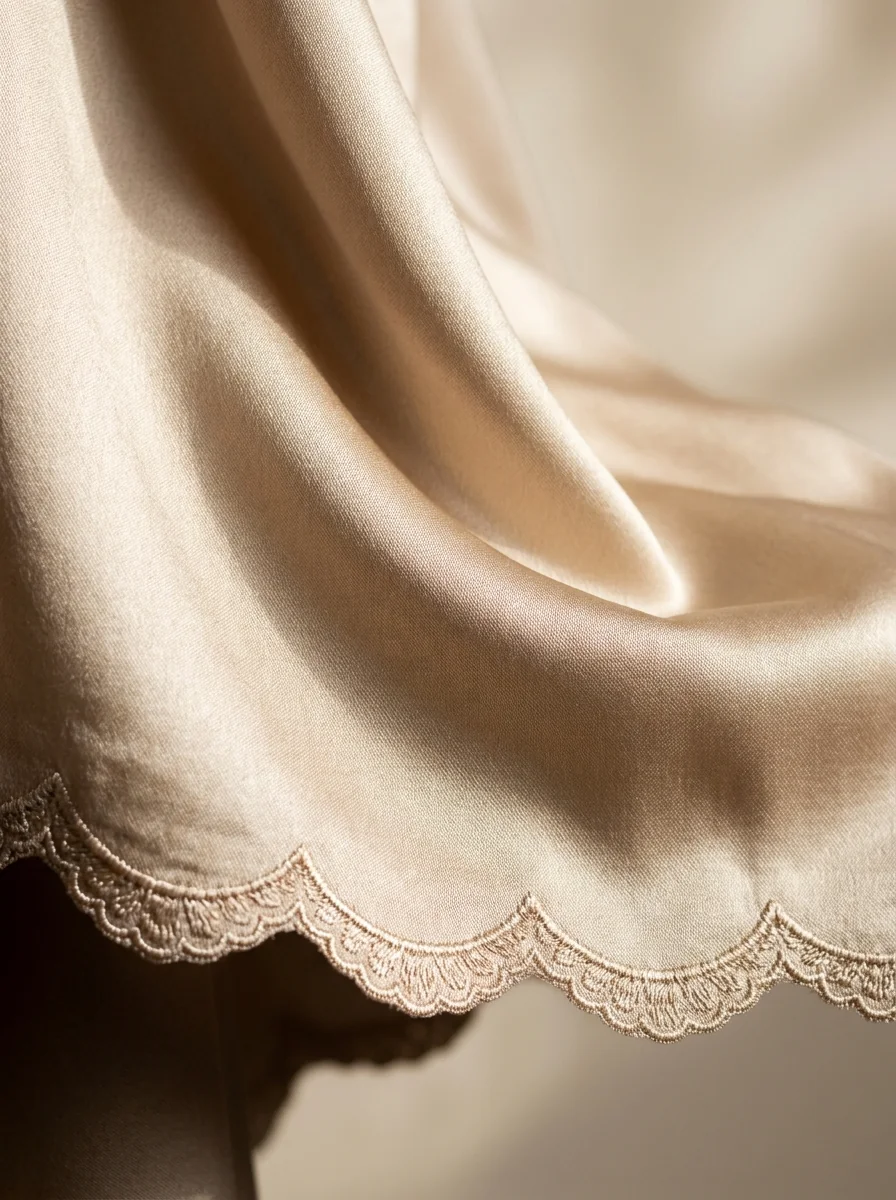
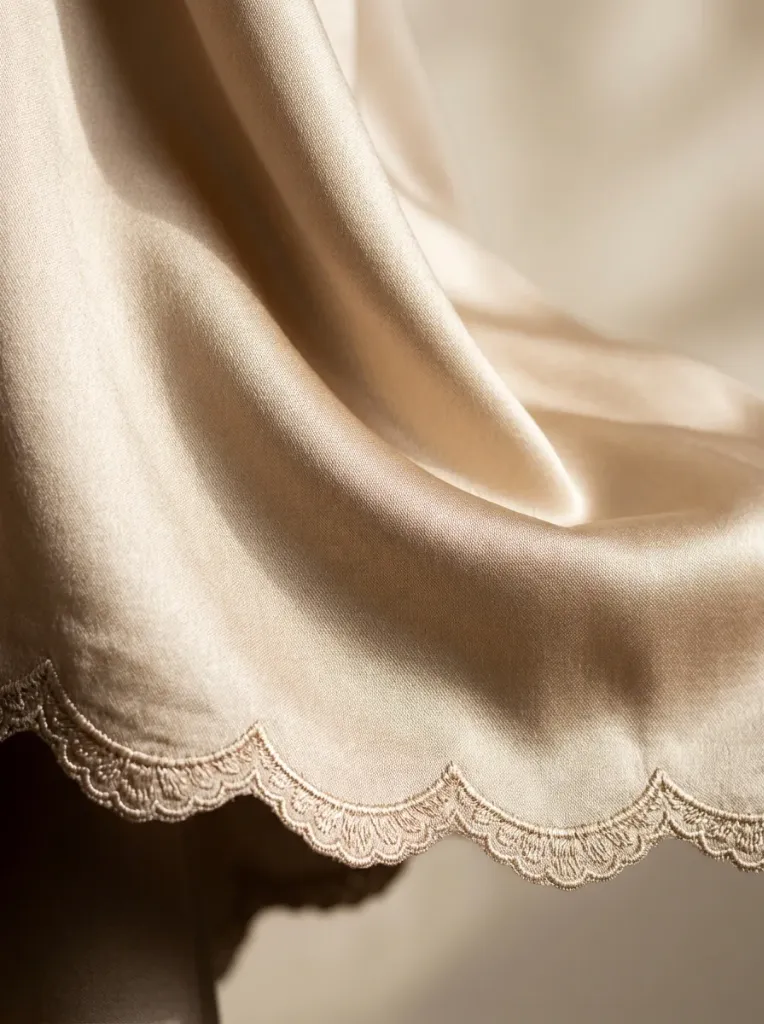
fix(portfolio): update apparel image with silk detail and decouple slot key from stale supabase entry

Changed region(s): [[0.6623, 0.75, 1.0, 0.875], [0.7225, 0.5312, 0.7526, 0.5625]]

diff --git a/src/components/Portfolio.tsx b/src/components/Portfolio.tsx
@@ -15,7 +15,7 @@ import wellnessGiftFlatlay from '@/assets/selected-work/wellness-gift-flatlay.we
 
 // ── Image key → fallback mapping ─────────────────────────────────────────────
 const PORTFOLIO_SLOTS = [
-  { key: 'portfolio_1', fallback: apparelSilkDetail, alt: 'Silk Apparel Detail Shoot — Saleixo', category: 'Apparel & Fashion' },
+  { key: 'portfolio_apparel', fallback: apparelSilkDetail, alt: 'Silk Apparel Detail Shoot — Saleixo', category: 'Apparel & Fashion' },
   { key: 'portfolio_hero_4', fallback: jewelryEarringsHero, alt: 'Jewelry Earrings Hero Shoot — Saleixo', category: 'Fine Jewelry' },
   { key: 'portfolio_3', fallback: beautyPedestalAlt, alt: 'Luxury Beauty & Cosmetics Editorial Shoot — Saleixo', category: 'Beauty & Cosmetics' },
   { key: 'portfolio_4', fallback: homeStorageWardrobe, alt: 'Home Storage Product Shoot — Saleixo', category: 'Home & Living' },
